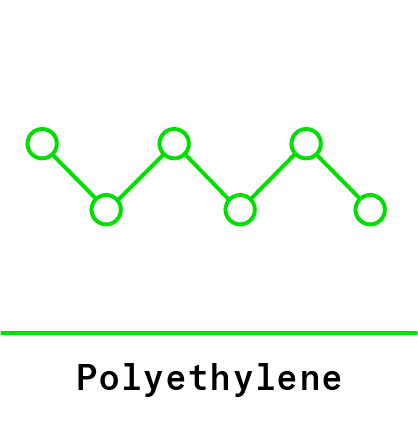
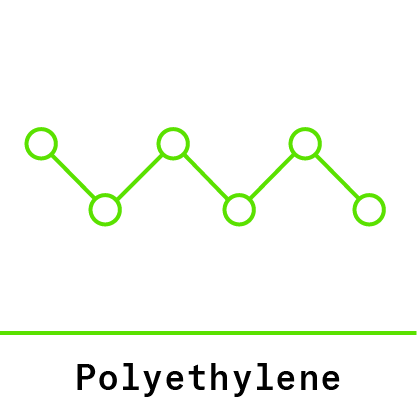
light yellow green update

Changed region(s): [[0.0624, 0.2806, 0.9353, 0.5612], [0.1871, 0.8417, 0.8106, 0.9664], [0.0, 0.7794, 1.0, 0.8106]]

diff --git a/website_code/making_code/making_coolingsystem_4/style/cooling_system_style.css b/website_code/making_code/making_coolingsystem_4/style/cooling_system_style.css
@@ -71,7 +71,7 @@ body {
 
 #header {
     grid-column: 1/-1;
-    border-bottom: 2px solid #00DD16;
+    border-bottom: 2px solid #5ae100;
     padding: 0px;
     line-height: 0.11em;
 }
@@ -96,8 +96,8 @@ body {
 #left-div {
     grid-column: 1/2;
     grid-row: 2/8;
-    border-bottom: 2px solid #00DD16;
-    border-right: 2px solid #00DD16;
+    border-bottom: 2px solid #5ae100;
+    border-right: 2px solid #5ae100;
     padding: 15px;
 }
 
@@ -149,10 +149,10 @@ body {
 #right-div {
     grid-column: 2/3;
     grid-row: 2/7;
-    /* border-bottom: 2px solid #00DD16; */
+    /* border-bottom: 2px solid #5ae100; */
     /* overflow-y: scroll; 
     overflow-x: hidden;
-    scrollbar-color: black #00DD16;  
+    scrollbar-color: black #5ae100;  
     height: 90vh; */
 }
 
@@ -162,7 +162,7 @@ body {
     font-size: 2.85em;
     letter-spacing: 0.25pt;
     text-transform: uppercase;
-    color: #00DD16;
+    color: #5ae100;
     line-height: 1.25em;
 }
 
@@ -178,7 +178,7 @@ body {
 #right-header {
     grid-column: 2/3;
     grid-row: 2/3;
-    border-bottom: 2px solid #00DD16;
+    border-bottom: 2px solid #5ae100;
 }
 
 /* PAGE WITH ELEMENTS LISTED*/
@@ -188,22 +188,22 @@ body {
 
 #right-component-1 {
     grid-column: 2/3;
-    border-bottom: 2px solid #00DD16;
+    border-bottom: 2px solid #5ae100;
 }
 
 #right-component-2 {
     grid-column: 2/3;
-    border-bottom: 2px solid #00DD16;
+    border-bottom: 2px solid #5ae100;
 }
 
 #right-component-3 {
     grid-column: 2/3;
-    border-bottom: 2px solid #00DD16;
+    border-bottom: 2px solid #5ae100;
 }
 
 #right-component-4 {
     grid-column: 2/3;
-    border-bottom: 2px solid #00DD16;
+    border-bottom: 2px solid #5ae100;
 }
 
 
@@ -226,29 +226,29 @@ body {
     grid-column: 1/-1;
     background-color: #DADADA;
     font-family: "GT-America-Mono-Medium";
-    color: #00DD16;
+    color: #5ae100;
     font-size: 1.5em;
 }
 
 #footer-back {
     padding: 15px;
     height: 5vh;
-    border-right: 2px solid #00DD16;
-    border-top: 2px solid #00DD16;
+    border-right: 2px solid #5ae100;
+    border-top: 2px solid #5ae100;
 }
 
 
 #footer-finish {
     padding: 15px;
     height: 5vh;
-    border-top: 2px solid #00DD16;
+    border-top: 2px solid #5ae100;
     text-decoration: none;
-    color: #00DD16;
+    color: #5ae100;
 }
 
 #footer-link {
     text-decoration: none;
-    color: #00DD16;
+    color: #5ae100;
     line-height: 0;
 }
 
@@ -269,7 +269,7 @@ body {
 
 #go-back{
     text-decoration: none;
-    color: #00DD16;
+    color: #5ae100;
 }
 
 #go-back:hover{
@@ -393,7 +393,7 @@ figure {
 
 /* PROGRESS BAR */
 progress {
-    color: #00DD16;
+    color: #5ae100;
     font-size: 12px;
     width: 395px;
     height: 21px;
@@ -404,7 +404,7 @@ progress {
     vertical-align: top;
   }
   progress::-moz-progress-bar { 
-    color:#00DD16;;
+    color:#5ae100;;
     background:#434343; 
   }
   
@@ -415,7 +415,7 @@ progress {
   }
   
   progress[value]::-webkit-progress-value {
-    background-color: #00DD16;
+    background-color: #5ae100;
   }
   
   input[type=range] {
@@ -432,7 +432,7 @@ progress {
     height: 4.4px;
     cursor: pointer;
     box-shadow: 0.9px 0.9px 1.7px #002200, 0px 0px 0.9px #003c00;
-    background: #00DD16;
+    background: #5ae100;
     border: 1.1px solid #18d501;
   }
   input[type=range]::-webkit-slider-thumb {
@@ -441,7 +441,7 @@ progress {
     height: 18px;
     width: 9px;
     /* border-radius: 3px; */
-    background: #00DD16;
+    background: #5ae100;
     cursor: pointer;
     -webkit-appearance: none;
     margin-top: -7.9px;
@@ -454,7 +454,7 @@ progress {
     height: 4.4px;
     cursor: pointer;
     box-shadow: 0.9px 0.9px 1.7px #002200, 0px 0px 0.9px #003c00;
-    background: #00DD16;
+    background: #5ae100;
     /* border: 1.1px solid #18d501; */
   }
   input[type=range]::-moz-range-thumb {
@@ -463,7 +463,7 @@ progress {
     height: 18px;
     width: 9px;
     /* border-radius: 3px; */
-    background: #00DD16;
+    background: #5ae100;
     cursor: pointer;
   }
   input[type=range]::-ms-track {
@@ -475,13 +475,13 @@ progress {
     color: transparent;
   }
   input[type=range]::-ms-fill-lower {
-    background: #00DD16;
+    background: #5ae100;
     /* border: 1.1px solid #18d501;
     border-radius: 2px; */
     box-shadow: 0.9px 0.9px 1.7px #002200, 0px 0px 0.9px #003c00;
   }
   input[type=range]::-ms-fill-upper {
-    background: #00DD16;
+    background: #5ae100;
     border: 1.1px solid #18d501;
     box-shadow: 0.9px 0.9px 1.7px #002200, 0px 0px 0.9px #003c00;
   }
@@ -490,13 +490,13 @@ progress {
     border: 2.5px solid #83e584;
     height: 18px;
     width: 9px;
-    background: #00DD16;
+    background: #5ae100;
     cursor: pointer;
     height: 4.4px;
   }
   input[type=range]:focus::-ms-fill-lower {
-    background:#00DD16;
+    background:#5ae100;
   }
   input[type=range]:focus::-ms-fill-upper {
-    background: #00DD16;
+    background: #5ae100;
   }

diff --git a/website_code/making_code/making_coolingsystem_4/style/index_style.css b/website_code/making_code/making_coolingsystem_4/style/index_style.css
@@ -71,7 +71,7 @@ body {
 
 #header {
     grid-column: 1/-1;
-    border-bottom: 2px solid #00DD16;
+    border-bottom: 2px solid #5Ae100;
 }
 
 #header-div {
@@ -118,7 +118,7 @@ body {
     grid-column: 1/-1;
     background-color: #DADADA;
     font-family: "GT-America-Mono-Medium";
-    color: #00DD16;
+    color: #5Ae100;
     font-size: 1.65em;
 }
 
@@ -133,25 +133,25 @@ body {
 }
 
 #footer-next-div {
-    border-right: 2px solid #00DD16;
-    border-top: 2px solid #00DD16;
+    border-right: 2px solid #5Ae100;
+    border-top: 2px solid #5Ae100;
 }
 
 #footer-next-div:hover{
     color: black;
     cursor: pointer;
-    /* background-color: #00DD16; */
+    /* background-color: #5Ae100; */
 }
 
 #footer-finish {
-    border-top: 2px solid #00DD16;
+    border-top: 2px solid #5Ae100;
     text-decoration: none;
-    color: #00DD16;
+    color: #5Ae100;
 }
 
 #footer-link {
     text-decoration: none;
-    color: #00DD16;
+    color: #5Ae100;
     line-height: 0;
 }
 

diff --git a/website_code/making_code/making_coolingsystem_4/style/finish_style.css b/website_code/making_code/making_coolingsystem_4/style/finish_style.css
@@ -71,7 +71,7 @@ body {
 
 #header {
     grid-column: 1/-1;
-    /* border-bottom: 2px solid #00DD16; */
+    /* border-bottom: 2px solid #5AE100; */
 }
 
 #header-div {
@@ -121,8 +121,8 @@ body {
     grid-column: 1/-1;
     background-color: #DADADA;
     font-family: "GT-America-Mono-Medium";
-    /* color: #00DD16; */
-    background-color: #00DD16;
+    /* color: #5AE100; */
+    background-color: #5AE100;
 }
 
 .item--footer {
@@ -138,16 +138,16 @@ body {
 }
 
 #footer-left-div{
-    border-right: 2px solid #00DD16;
-    border-top: 2px solid #00DD16;
-    background-color: #00DD16;
+    border-right: 2px solid #5AE100;
+    border-top: 2px solid #5AE100;
+    background-color: #5AE100;
     width: 100vw;
     padding-top: 1em;
 }
 
 #footer-right-div{
     width:50vw;
-    background-color: #00DD16;
+    background-color: #5AE100;
     padding: 1em;
 }
 
